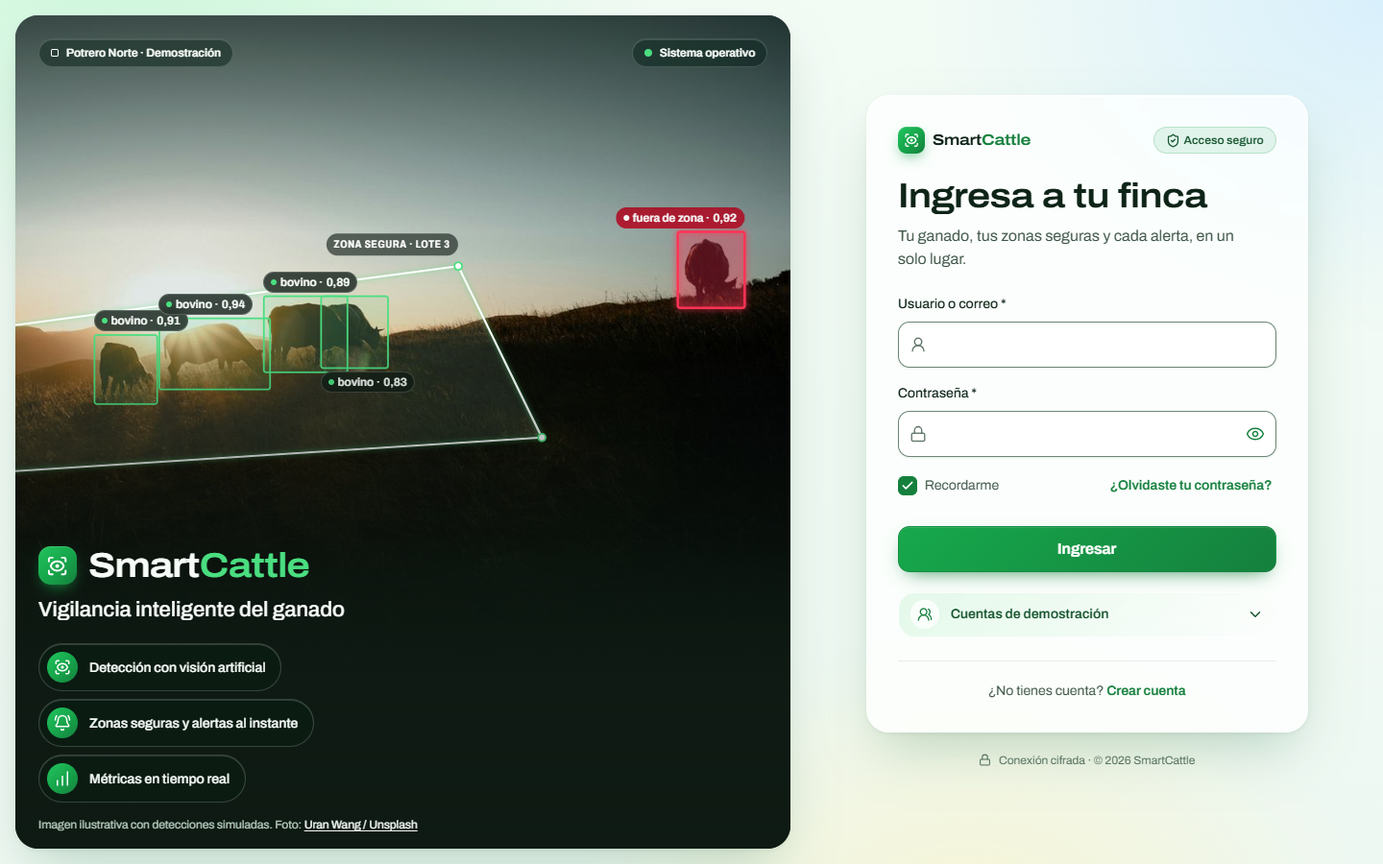
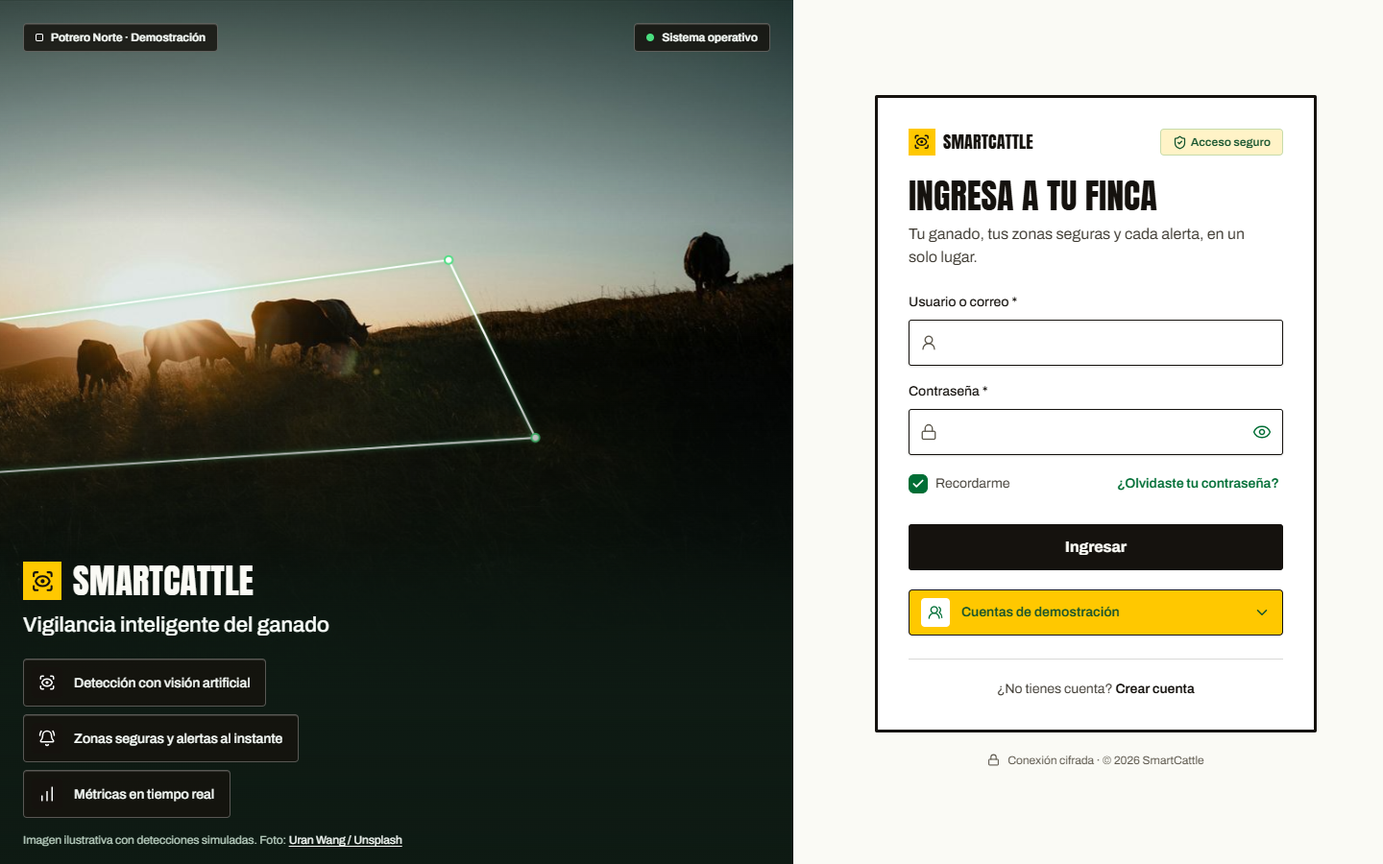
docs: describe the redesign and refresh the screenshots

diff --git a/README.md b/README.md
@@ -4,17 +4,19 @@ Web interface for **SmartCattle**, a platform that monitors cattle farms with ca
 
 This repository contains only the frontend. The REST API lives in the separate `SmartCattle-Backend` repository (Python, FastAPI), and detection (OpenCV + YOLO) belongs to `SmartCattle-AI`.
 
-> **Status:** Phases 1–9 are complete, plus a realistic 3D pasture, a video analyzer with simulated detection, an analytics page and the **Dashboard V15** redesign (glass panels and motion across the app). The final quality pass remains. See [Roadmap](#roadmap).
+> **Status:** Phases 1–9 are complete, plus a realistic 3D pasture, analytics, a daily report, a first-run conversation and the **Cartel de feria** redesign: a public scroll story, flat poster inks and an assistant named Lucero. Cameras are live only: video upload is gone. See [Roadmap](#roadmap).
 
-![Home dashboard with live metrics, the live herd monitor and the cattle summary](docs/screenshots/dashboard-desktop.png)
+![The public page: the headline is cut out of black ink and the pasture shows through the letters](docs/screenshots/landing-desktop.png)
+
+![Home dashboard printed in the page's ink, with the herd as seen by the cameras along the band](docs/screenshots/dashboard-desktop.png)
 
 | Login (desktop) | Login (mobile) |
 |---|---|
-| ![Login with the dusk pasture photo and a glass form card](docs/screenshots/login-desktop.png) | ![Login screen on mobile](docs/screenshots/login-mobile.png) |
+| ![Login with the dusk pasture photo and a plain printed form](docs/screenshots/login-desktop.png) | ![Login screen on mobile](docs/screenshots/login-mobile.png) |
 
 | Home on a phone | Mobile "Más" sheet |
 |---|---|
-| ![Home dashboard on a phone](docs/screenshots/dashboard-mobile.png) | ![Mobile tab bar and the glass "Más" sheet](docs/screenshots/app-shell-mobile-more.png) |
+| ![Home dashboard on a phone](docs/screenshots/dashboard-mobile.png) | ![Mobile tab bar and the "Más" sheet](docs/screenshots/app-shell-mobile-more.png) |
 
 ---
 
@@ -31,7 +33,8 @@ This repository contains only the frontend. The REST API lives in the separate `
 - [Dashboard](#dashboard)
 - [Live monitoring](#live-monitoring)
 - [3D pasture](#3d-pasture)
-- [Videos](#videos)
+- [Daily report](#daily-report)
+- [First run and the assistant](#first-run-and-the-assistant)
 - [Analytics](#analytics)
 - [Motion](#motion)
 - [Design system](#design-system)
@@ -51,7 +54,7 @@ This repository contains only the frontend. The REST API lives in the separate `
 | Language | TypeScript 6 (strict) | Typed API contracts and safer refactors |
 | Build tool | Vite 8 | Fast dev server, CSS Modules out of the box |
 | Routing | React Router 8 | Data router with nested layout routes |
-| Styling | Plain CSS: CSS Modules + custom properties | No framework lock-in, tokens in one file, glass recipe built from tokens |
+| Styling | Plain CSS: CSS Modules + custom properties | No framework lock-in, tokens in one file, one ink per page |
 | Icons | lucide-react | Consistent stroke icons, tree-shaken |
 | 3D | three.js + @react-three/fiber + @react-three/drei | Declarative 3D scene in React, orbit controls, HTML labels, glTF loading |
 | Motion | motion (`motion/react`, the successor of framer-motion) | Page transitions, layout animations, shared-element indicators, springs, reduced-motion hook |
@@ -60,7 +63,7 @@ This repository contains only the frontend. The REST API lives in the separate `
 | Tests | Vitest | Same config as Vite, fast |
 | Lint | ESLint 10 + typescript-eslint | Flat config |
 
-No UI kit, CSS framework or state library is used. The 3D pasture, videos and analytics pages are lazy-loaded, so three.js and Recharts are only downloaded when those pages open.
+No UI kit, CSS framework or state library is used. The public page, the 3D pasture and the analytics page are lazy-loaded, so three.js and Recharts are only downloaded when those pages open.
 
 ## Getting started
 
@@ -167,7 +170,7 @@ src/
   components/
     layout/     AppShell, SideRail, TopBar, MobileTabBar, MoreSheet, AlarmBanner
     ui/         Reusable UI primitives (GlassCard, BrandMark, Button, TextField, StatusPill, ...)
-  features/     One folder per section (auth, dashboard, monitoring, events, videos, pasture3d, ...)
+  features/     One folder per section (auth, dashboard, monitoring, events, landing, onboarding, report, assistant, pasture3d, ...)
   lib/          Pure helpers: event catalog, permissions, safe storage, zone alarm
                 (`permissions.ts` mirrors the roles the backend enforces; it
                 shapes the interface and protects nothing)
@@ -457,15 +460,18 @@ and simply cannot be there.
 flowchart TB
     root(["/"]) --> pub["RedirectIfAuthenticated"]
     root --> priv["RequireAuth"]
+    root --> land["/bienvenida (public, lazy)"]
     pub --> login["/login"]
     pub --> register["/register"]
-    priv --> shell["AppShell"]
+    priv --> first["RequireOnboarding"]
+    priv --> onb["/primeros-pasos"]
+    first --> shell["AppShell"]
     shell --> d["/ Inicio"]
     shell --> m["/live En vivo"]
     shell --> e["/events Eventos"]
     shell --> c["/cattle Ganado"]
     shell --> pa["/pasture Potrero 3D (lazy)"]
-    shell --> v["/videos Videos (lazy)"]
+    shell --> inf["/informe Informe diario"]
     shell --> an["/analytics Análisis (lazy)"]
     shell --> cam["/cameras Cámaras"]
     shell --> s["/settings Ajustes"]
@@ -473,11 +479,12 @@ flowchart TB
     shell --> nf["* Página no encontrada"]
 ```
 
-- Anonymous visitors to a private route are redirected to `/login` and come back to the requested page after signing in.
+- Anonymous visitors to `/` land on the public page, `/bienvenida`. Any other private route redirects to `/login` and comes back to the requested page after signing in.
+- Someone who has not had the first-run conversation goes to `/primeros-pasos` once. After that, signing in opens the page they chose as their start.
 - The navigation is defined once in `src/app/navigation.ts`.
-- **Desktop (≥ 1024 px):** floating glass side rail with the nine sections, a green indicator that slides to the active page, the demo badge and the signed-in user.
-- **Mobile:** glass top bar, a floating five-cell tab bar (Inicio, En vivo, Eventos, Ganado, Más) and a native `<dialog>` glass sheet for Potrero 3D, Videos, Análisis, Cámaras, Ajustes and Perfil.
-- **Alarm banner:** when any part of the app raises a zone alarm (live map, 3D pasture, video analyzer), a red banner slides down with a "Silenciar" action.
+- **Desktop (≥ 1024 px):** black side rail with the nine sections, the active one printed in that page's ink, the demo badge and the signed-in user.
+- **Mobile:** black top bar, a five-cell tab bar (Inicio, En vivo, Eventos, Informe, Más) and a native `<dialog>` sheet for Ganado, Potrero 3D, Análisis, Cámaras, Ajustes and Perfil.
+- **Alarm banner:** when the live map or the 3D pasture raises a zone alarm, a solid red band prints across the page with a "Silenciar" action.
 - "Security" is a tab inside Events rather than a separate page: security alerts are events, and a separate page would duplicate the list and filters.
 
 ---
@@ -531,7 +538,7 @@ Rules the dashboard follows:
 
 `/live?camera=<id>` shows one camera as the protagonist. Without a `camera` parameter it opens the camera with the most recent alert, so "Verificar cámara" on the dashboard lands on the evidence.
 
-![Live monitoring with detections, safe zone and the glass camera switcher](docs/screenshots/live-desktop.png)
+![Live monitoring with detections, safe zone and camera switcher](docs/screenshots/live-desktop.png)
 
 The camera stage stacks independent layers over the picture. Overlay coordinates are normalized (0–1) and drawn in the picture's own pixel space, so boxes stay registered to the image at any size.
 
@@ -563,7 +570,6 @@ flowchart TB
 - **Layer toggles** (Detecciones, Zona segura, Etiquetas) only change the display. They never touch backend data.
 - **Polling:** detections every 5 s, cameras, events and status every 15 s. Changing camera never shows the previous camera's data.
 - **Mobile:** the camera strip scrolls horizontally and keeps the selected camera in view; persons and outside-zone labels stay, other labels hide on narrow screens to avoid clutter.
-- **Glass layout:** the dark stage sits in a glass frame; the camera switcher and status panels are glass cards, and switching camera animates the selection.
 
 ---
 
@@ -587,7 +593,6 @@ flowchart LR
 ```
 
 - **Modular asset kit.** Assets live in family folders, like a modular asset library: `kit/terrain`, `kit/environment`, `kit/fences`, `kit/animals`, `kit/people`, `kit/structures`, `kit/nature`. Cows use a CC0 glTF model (`public/models/cow.glb`) with coats (Holstein, criollo, black Brangus, zebu) generated at runtime; people, fences, barn, trees, rocks, grass, terrain and sky are procedural. Geometries and materials are shared.
-- **Glass wrapper.** The page header, controls, zone panel and exit log use the glass panels of the rest of the app; the scene itself is unchanged.
 - **Zone state.** Each lot is a safe zone. Membership is a point-in-polygon test on the lot boundary. A breached zone shows red, a pulsing outline, a label with the cow's name and the words "fuera de zona", so the state is never color-only.
 - **Controls.** Pause/resume, "Provocar salida" (forces one cow out to demo the alert), name labels on/off and camera presets (overview and one per lot). The zone panel lists cows inside each lot; the exit log keeps the session's exits and returns.
 - **Performance.** Positions update in refs inside the render loop; React state changes only when a zone's status changes. Device pixel ratio is capped at 2.
@@ -595,33 +600,42 @@ flowchart LR
 
 ---
 
-## Videos
+## Daily report
 
-`/videos` lets the user load farm recordings (drag and drop or "Elegir videos") and review them in the browser.
+`/informe` ("Informe diario") reads the day's report from `GET /api/reports/daily`, the same one the dashboard summarises. Nobody has to generate or send it.
 
-![Videos page with the glass library and drop zone](docs/screenshots/videos-desktop.png)
+![Daily report: hours observed, peak count, alerts, and how much of the observed time the herd spent lying, standing and walking](docs/screenshots/informe-desktop.png)
 
-- Files are validated (video type, not empty, up to 1 GB). Rejected files get a reason.
-- Each video gets a thumbnail, duration and resolution read in the browser, and can be assigned to a camera.
-- **Assigned videos show on the camera.** A video assigned to a camera plays on that camera's card in Cámaras and on the En vivo stage, tagged "Video cargado · no es en vivo". No demo detections are drawn over it, because they would be fake.
-| Assigned video on the camera card | Assigned video on the live stage |
-|---|---|
-| ![Camera card playing a loaded video](docs/screenshots/cameras-video-desktop.png) | ![Live stage playing a loaded video](docs/screenshots/live-video-desktop.png) |
-
-- **Nothing is uploaded.** The backend has no upload endpoint, so videos stay in the browser as object URLs (released when removed) and the page says so.
-- **Sample clip.** Evaluators without footage can generate a sample pasture clip from the notice at the top of the page.
-
-### Video analyzer
-
-"Analizar con IA (simulación YOLO)" opens the analyzer: the video plays with detection boxes for cows and people, a draggable safe-zone polygon and a HUD with model, FPS, inference time, counts and the latest alerts. The detection is a labeled in-browser simulation, not a real model.
-
-![Video analyzer: a cow outside the safe zone triggers the alarm](docs/screenshots/video-analyzer-desktop.png)
-
-- A cow or person outside the zone is drawn red, marked on the timeline and raises the global alarm.
-- The zone corners can be dragged with the mouse or moved with the keyboard (Tab to a corner, arrow keys, Shift for long steps).
-- "Terminar y ver resumen" shows totals per class, alerts and a timeline; the summary is saved with `POST /api/videos/analyses`. In `mock` mode, or when the backend cannot be reached, it is kept in the browser so the result is never lost.
+- Four big figures: time observed, peak animals in view, alerts and detected events.
+- "Qué hizo el ganado": lying, standing and walking as bars that add up to 100 %, each with its share and hours.
+- Alerts of the day by severity, open and resolved, and notices such as a herd that barely lay down.
+- Previous and next day. Without activity the page says so; it never invents a figure. It is not a veterinary diagnosis, and the page says that too.
 
 ---
+
+## First run and the assistant
+
+**First run.** After the first sign-in, Lucero asks what the person wants to watch (cattle leaving, people, animals lying down, the daily report) and where they want to start. The answers order the dashboard's "Lo que elegiste vigilar" strip and the assistant's suggestions. They are stored in this browser per user (`smartcattle.onboarding.<userId>`), because the backend has no endpoint for preferences yet.
+
+**Lucero.** The star in the corner of every signed-in page. Each question goes to `POST /api/assistant/messages`, where the backend answers with Claude from the signed-in account's counts. No email or camera address leaves the server, and the browser never sees an API key.
+
+```mermaid
+sequenceDiagram
+    participant U as Farmer
+    participant F as Lucero (browser)
+    participant B as SmartCattle backend
+    participant C as Claude API
+    U->>F: "¿Cuántas alertas hay abiertas?"
+    F->>B: POST /api/assistant/messages (token, message, history)
+    B->>B: Read this account's counts
+    B->>C: Question + farm snapshot
+    C-->>B: Answer
+    B-->>F: Answer
+    F-->>U: Answer
+    Note over F,B: No key, an error or no backend: Lucero answers<br/>from the on-page rules and says it is in basic mode
+```
+
+Without `ANTHROPIC_API_KEY` the endpoint returns 503, and Lucero falls back to the rule-based answers, saying so. The model never writes SQL and has no tools.
 
 ## Analytics
 
@@ -643,64 +657,46 @@ flowchart LR
 - Every chart has a one-line insight computed from the data and a visually hidden data table for screen readers.
 - Confidence is labeled as the detector's per-event value, not model accuracy. A lower count is not presented as lost animals.
 - Data comes from `GET /api/events` (demo events in `mock` mode, marked with the demo badge).
-- Charts sit on glass cards with gradient fills, a shared glass tooltip and a range selector whose indicator slides between 24 h, 7 días and 30 días. KPI tiles count up and show their change.
+- A range selector moves between 24 h, 7 días and 30 días. KPI tiles count up and show their change.
 
 ---
 
 ## Motion
 
-Motion is short, calm and functional. Presets live in `src/motion/presets.ts` (ease-out curves, 140–600 ms) and mirror the CSS tokens.
+Motion is about the cattle, and it follows what the cameras report. Presets live in `src/motion/presets.ts` and mirror the CSS tokens.
 
 | Where | What moves |
 |---|---|
-| Route change | Content fades in with a 12 px rise (0.45 s) |
-| Side rail and mobile tab bar | The active marker slides between items (shared layout animation) |
-| Dashboard | Sections reveal in sequence; metrics count up with delta chips; cattle markers walk, turn and graze; new log entries slide in |
-| Lists (events, field log, cattle, cameras, videos) | Items stagger in on first render, capped at 8 steps |
-| Login and register | The photo's detection boxes appear one by one, a scan line sweeps the image and the outside-zone box pulses; the form card rises in |
-| Analytics | Range tabs slide their indicator; KPIs count up; charts draw in |
-| Cards and buttons | Clickable cards lift 2 px on hover; buttons have press feedback and a sheen on the primary gradient |
-| Alarms | Pulsing red ring on the marker and a banner that slides down |
+| Public page | Scroll flies through a letter of the headline into the pasture, then a walk, a cow lying down and a cow leaving the zone. The fence turns red and the page's frame prints in red |
+| Page bands | One printed figure per animal in view, in the posture the AI reports: walking figures walk, lying figures lie |
+| 3D pasture | Each cow takes the reported posture. A lying cow far from its target moves there before walking on, so it never slides while lying |
+| Side rail and mobile tab bar | The active marker slides between items |
+| Lucero | The star idles, turns while thinking and pulses while speaking |
+| Login and register | The photo's detection boxes appear one by one over the real dusk photo |
+| Analytics | Range tabs slide their indicator; KPIs count up; bars grow in |
+| Buttons | Press feedback under 160 ms; hover effects only on devices that really hover |
 
-Only `transform` and `opacity` are animated. With `prefers-reduced-motion` every primitive falls back to a short fade or no motion.
-
----
+Animation uses `transform`, `opacity` and `clip-path`. With `prefers-reduced-motion` the public page is a still farm with the headline over it, the printed figures stop and the scroll story is replaced by the sections below it.
 
 ## Design system
 
-The visual direction is **"Dashboard V15"**: glass panels floating over a soft pastel-green gradient, natural greens and smooth, purposeful motion, on top of the original **"farm survey plan"** language (safe zones drawn as *linderos*, cameras as observation points, the history as a field log). It avoids cartoon farm imagery.
+The visual direction is **"Cartel de feria"**, a cattle fair poster: flat inks, huge condensed type, thick rules, no glass and no gradients. Every page prints in one ink, chosen in `src/app/navigation.ts`. The camera stage stays dark and the 3D pasture keeps its realistic look.
 
-All values live as CSS custom properties in `src/styles/tokens.css`. Components use tokens only.
+| Ink | Token | Value | Used by |
+|---|---|---|---|
+| Verde | `--ink-verde` | `#00A650` | Inicio, Potrero 3D |
+| Maíz | `--ink-maiz` | `#FFC800` | Ganado, Cámaras, main actions |
+| Fucsia | `--ink-fucsia` | `#DB0A73` | Informe diario, Lucero |
+| Cobalto | `--ink-cobalto` | `#1B2FD8` | En vivo, Análisis |
+| Naranja | `--ink-naranja` | `#FF5A1F` | Eventos |
+| Tinta | `--ink-tinta` | `#15120E` | Ajustes, Perfil, shell, text |
+| Papel | `--ink-papel` | `#FAFAF5` | Ground |
 
-| Role | Token | Value |
-|---|---|---|
-| Ground | `--color-ground` | `#F7FCF8` |
-| Surface | `--color-surface` | `#FFFFFF` |
-| Ink | `--color-ink` | `#0F2418` |
-| Brand (primary action, active item) | `--color-brand` | `#16A34A` |
-| Brand strong | `--color-brand-strong` | `#15803D` |
-| Safe / connected | `--color-safe` | `#16A34A` |
-| Warning | `--color-warning` | `#D97706` |
-| Critical / alarm | `--color-critical`, `--color-alarm` | `#EF233C` |
-| Info | `--color-info` | `#0284C7` |
-| Camera stage | `--color-stage` | `#0E1A13` |
-| Pastel accents | `--color-mint`, `-sky`, `-butter`, `-peach`, `-lilac` | each with an `-ink` text token |
-
-**Glass recipe.** Cards, rail, top bar and sheets share one recipe built from tokens:
-
-```css
-background: var(--glass-fill);              /* white at 62 % */
-border: 1px solid var(--glass-border);
-box-shadow: var(--glass-highlight), var(--glass-shadow);
-backdrop-filter: blur(var(--glass-blur)) saturate(var(--glass-saturate));
-```
-
-Variants: `--glass-fill-strong` for dense content, `--glass-fill-subtle` for nested wells, `--glass-fill-brand` for the active item and `--glass-dark-fill` over photos and the camera stage. The page backdrop is `--glass-backdrop` (mint, sky and butter radial gradients) and primary actions use `--gradient-brand`. The fills stay readable without `backdrop-filter`.
-
-- **Light app, dark camera stage.** Owners check the app outdoors in daylight, so the app is light; video sits on a dark viewfinder surface.
-- **Typography:** Archivo Variable. The wide cut is for headings, the condensed cut for dense labels, with tabular figures for counts and times.
+- **Typography:** Anton for headlines, Alfa Slab One for figures and stamps, Archivo for reading.
+- **Routes:** `data-ink` on the shell sets `--route-ink` and `--route-on-ink`, and components read those.
 - **States** always combine an icon and a word, never color alone. Outside-zone areas are also hatched.
-- **Motion:** short ease-out transitions (140–600 ms); see [Motion](#motion). Everything respects `prefers-reduced-motion`.
+- **Honesty:** what is simulated says so. The public page is labeled "Simulación ilustrativa" and demo data carries the demo badge.
+- Older `--glass-*` and `--gradient-*` tokens map to flat values, so a component that still names them prints flat.
 - Text selection, focus rings, the caret and scrollbars are themed from the palette.
 
 ## Accessibility
@@ -762,7 +758,7 @@ Each change is also reviewed with desktop (1440 px) and mobile (390 px) screensh
 - Cameras with recent alerts first, then cameras with connection problems
 - Owners see a note that adding or rezoning cameras needs backend support; no fake configuration controls
 
-![Cameras page with glass camera cards](docs/screenshots/cameras-desktop.png)
+![Cameras page with camera cards](docs/screenshots/cameras-desktop.png)
 
 **Phase 6: Cattle**
 - Herd figures: registered vs. detected now, with the occlusion note
@@ -770,7 +766,7 @@ Each change is also reviewed with desktop (1440 px) and mobile (390 px) screensh
 - Recent cattle movements (outside-zone exits, external animals)
 - No veterinary data: no vaccines, treatments, weights or collars
 
-![Cattle page with the herd table on a glass panel](docs/screenshots/cattle-desktop.png)
+![Cattle page with the herd table on a panel](docs/screenshots/cattle-desktop.png)
 
 **Phases 7 and 8: Events, alerts and security**
 - Category tabs with counts: Todos, Seguridad, Ganado, Sistema (security is a tab, not a separate page, because security alerts are events)
@@ -792,21 +788,19 @@ Each change is also reviewed with desktop (1440 px) and mobile (390 px) screensh
 
 | Settings | Profile |
 |---|---|
-| ![Settings page with glass sections](docs/screenshots/settings-desktop.png) | ![Profile page with the gradient banner](docs/screenshots/profile-desktop.png) |
+| ![Settings page with sections](docs/screenshots/settings-desktop.png) | ![Profile page with its band](docs/screenshots/profile-desktop.png) |
 
-**3D pasture, videos, analytics and motion**
+**3D pasture, analytics and motion**
 - Interactive 3D pasture with a procedural asset kit, a seeded herd simulation and zones that turn red when a cow leaves them
-- Local video review with thumbnails and camera assignment; assigned videos play on the camera card and the live stage
 - Analytics page with percentage charts, KPIs and accessible data tables
 - App-wide motion: route transitions, sliding navigation marker, staggered lists, count-up figures, masked headlines
 
-**Dashboard V15 redesign**
-- Glass tokens and a shared `GlassCard`; floating glass side rail, top bar, tab bar and sheets over a pastel-green backdrop
-- Professional sign-in on the dusk pasture photo with animated detections, feature chips and a glass form card
-- Live herd monitor with animated cattle and people markers, real-time metrics with deltas and 60-second charts
-- Realistic 3D pasture with a glTF cow model; only its page wrapper joined the glass layout
-- Video analyzer with simulated YOLO detection, an editable safe zone and saved summaries
-- Every other page (En vivo, Eventos, Ganado, Cámaras, Ajustes, Perfil, Videos, Análisis) moved to glass panels with motion
+**Cartel de feria redesign**
+- Public page at `/bienvenida`: a scroll story through the approved pasture, labeled as a simulation, with a still version for reduced motion
+- Flat poster inks, one per page; herd band printed from the live detections
+- Camera form reduced to Name and Link; the phone, network search and QR options are one fold away; video upload removed: cameras are live only
+- The 3D pasture shows the postures the AI reports and names them in a legend, with no contradictions
+- Daily report page, first-run conversation and the Lucero assistant
 
 ## Roadmap
 
@@ -821,9 +815,10 @@ Each change is also reviewed with desktop (1440 px) and mobile (390 px) screensh
 | 7 | Events & alerts: history, filters, detail with evidence | Done |
 | 8 | Security: person detection, possible intrusion, restricted hours | Done |
 | 9 | Settings: farm, users, cameras, alerts, account (permission-aware) | Done |
-| — | 3D pasture, videos, analytics, motion | Done |
-| — | Dashboard V15: glass redesign, live herd monitor, video analyzer, realistic 3D pasture | Done |
-| 10 | Quality: accessibility and responsive audit, motion review, `DESIGN.md` | Next |
+| — | 3D pasture, analytics, motion | Done |
+| — | Dashboard V15: live herd monitor, realistic 3D pasture | Done, later replaced visually |
+| — | Cartel de feria: public page, daily report, first run, assistant, live-only cameras | Done |
+| 10 | Quality: accessibility and responsive audit | Next |
 
 Pending on the backend side: authentication, cameras, streaming, detections, safe zones, severity and notifications. The frontend is ready to switch each capability from demo data to the API as it lands.
 
@@ -833,4 +828,5 @@ Pending on the backend side: authentication, cameras, streaming, detections, saf
 - Icons: [Lucide](https://lucide.dev) (ISC License).
 - 3D: [three.js](https://threejs.org) and [React Three Fiber](https://docs.pmnd.rs/react-three-fiber) (MIT License). Cow model: "Cow" from the [Ultimate Animated Animal Pack](https://quaternius.com/packs/ultimateanimatedanimals.html) by Quaternius (CC0 1.0); see `public/models/CREDITS.md`. All other 3D assets are procedural and original to this project.
 - Charts: [Recharts](https://recharts.org) (MIT License). Motion: [Motion](https://motion.dev) (MIT License).
-- Font: [Archivo](https://fonts.google.com/specimen/Archivo) by Omnibus-Type (SIL Open Font License).
+- Fonts: [Archivo](https://fonts.google.com/specimen/Archivo) by Omnibus-Type, [Anton](https://fonts.google.com/specimen/Anton) by Vernon Adams and [Alfa Slab One](https://fonts.google.com/specimen/Alfa+Slab+One) by JM Solé (SIL Open Font License).
+- Printed cattle figures: rendered from the Quaternius cow model above with `scripts/render-herd-sprites.mjs`.

diff --git a/PRODUCT.md b/PRODUCT.md
@@ -45,13 +45,15 @@ Real backend capabilities today (FastAPI, in-memory storage):
 
 Not in the backend yet (frontend uses centralized, labeled mock data; endpoints are never invented): authentication and sessions, users and roles, farms and worker association, cameras, video streaming, per-frame detections, safe-zone geometry, person/vehicle detection, event severity, zone, evidence and review state, real-time push, notifications, day/night rules.
 
+Cameras are live only: uploading recordings was removed on purpose. Connecting a camera asks only for a name and a link.
+
 Scope limits: not veterinary software. No vaccines, reproduction, treatments, medical records, weighing, GPS collars or physical sensors unless explicitly requested.
 
 Language: all source code, comments, docs and commits in English; the visible UI is in Spanish.
 
 ## Brand Commitments
 
-Name: SmartCattle. No logo or established visual identity. The previous prototype (plain white backgrounds, cartoon illustrations, weak hierarchy) is an anti-reference. Desired personality: professional, calm, trustworthy, rural but technological, realistic. No cartoon cows or childish illustration.
+Name: SmartCattle. Visual direction chosen by the owner: "Cartel de feria", a cattle fair poster with vivid flat inks, huge condensed type and motion about the cattle, meant to catch the public's attention. Personality: loud on the surface, exact in what it says. Trustworthy because every figure and posture comes from the cameras or is labeled as simulated. No cartoon cows or childish illustration: the login keeps the real photo with detection boxes, the 3D pasture keeps its approved realistic look. The assistant is Lucero, a star; it speaks plainly and answers only from the account's data.
 
 ## Evidence on Hand
 
